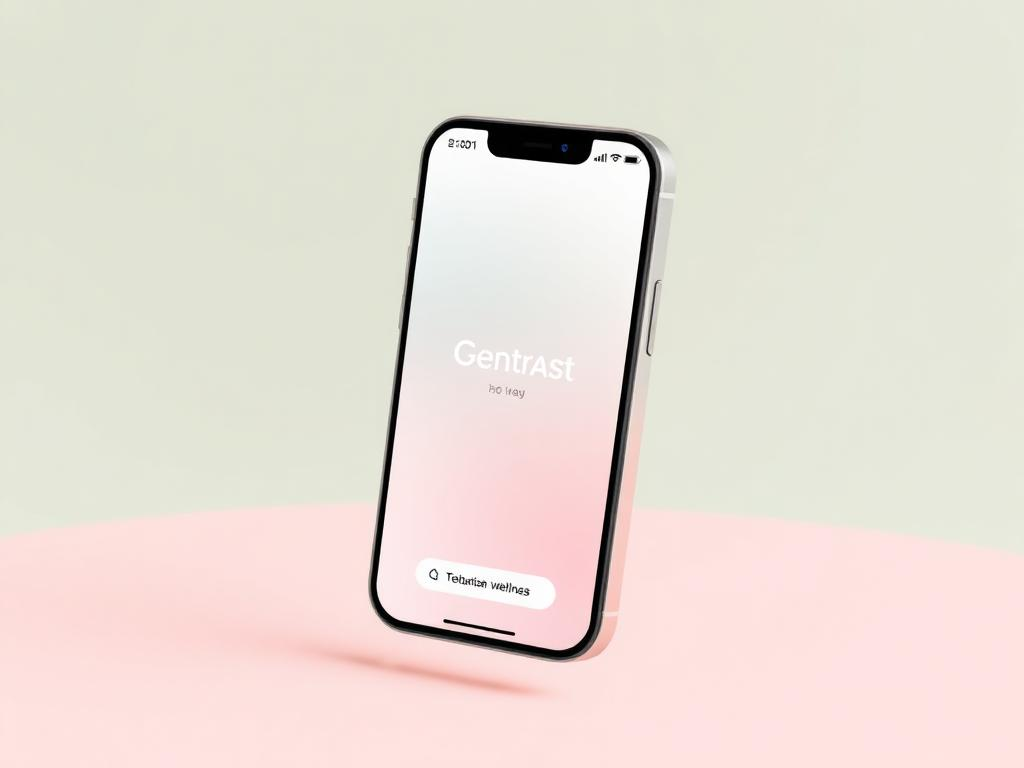
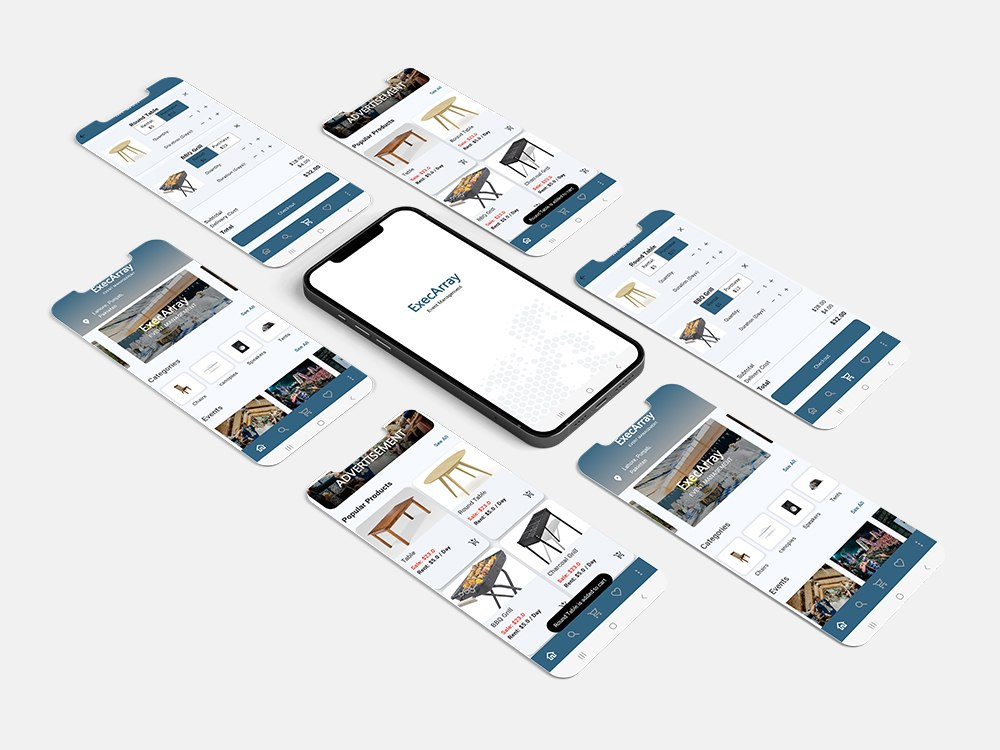
working on all sections to make it stable
working on all sections to make it stable

diff --git a/src/components/portfolio/data.ts b/src/components/portfolio/data.ts
@@ -1,6 +1,6 @@
-import p1 from "@/assets/project-1.jpg";
-import p2 from "@/assets/project-2.jpg";
-import p3 from "@/assets/project-3.jpg";
+import p1 from "@/assets/project-1.png";
+import p2 from "@/assets/project-2.png";
+import p3 from "@/assets/project-3.png";
 import p4 from "@/assets/project-4.jpg";
 
 export type Category = "Android" | "Flutter" | "Open Source" | "UI/UX";
@@ -17,45 +17,56 @@ export const projects: {
   demo?: string;
 }[] = [
   {
-    title: "FitTrack Pro",
-    description: "Workout & nutrition tracker with offline-first sync, 50k+ downloads on Play Store.",
+    title: "QR Code Scanner & Generator",
+    description: "Built an all-in-one QR Code Scanner & Generator app that enables fast scanning, creation, and customization of QR codes with support for colors, logos, styles, and multiple formats. Implemented offline local storage for saving and managing generated QR codes with instant sharing capabilities. Designed for both personal and business use with a clean UI and high-performance real-time scanning experience.",
     image: p1,
     stack: ["Kotlin", "Jetpack Compose", "Room", "Firebase"],
     features: ["Offline sync", "Custom charts", "Apple Health import", "Dark mode"],
     category: ["Android"],
-    playStore: "#",
-    github: "#",
+    playStore: "https://play.google.com/store/apps/details?id=com.imidroid.barcodescanner",
+
   },
   {
-    title: "Bento Eats",
-    description: "Cross-platform food delivery app with live order tracking and Stripe payments.",
+    title: "Kinetic Fitness App",
+    description: "Kinetic Fitness App (Flutter): Coaching, Workouts, Nutrition, Progress Tracking Designed and delivered a full-scale fitness and wellness mobile app built with Flutter, combining personal coaching, structured workouts, nutrition planning, body tracking, and visual progress tools into a single, high-performance platform.",
     image: p2,
-    stack: ["Flutter", "Dart", "Riverpod", "Stripe"],
-    features: ["Live tracking", "Push notifications", "12 languages", "A/B testing"],
-    category: ["Flutter"],
-    playStore: "#",
-    demo: "#",
+    stack: ["Flutter", "Dart", "Stacked Management", "Social feed"],
+    features: ["Personalized workout plans", "Assign a personal coach", "Diet tracking & recipe search", "Log, weight, goals & body fat", "Chat with coaches for guidance"],
+    category: ["Flutter" , "UI/UX"],
+    demo: "https://www.youtube.com/shorts/jbNbnxHEzng",
   },
   {
-    title: "Lumen Finance",
-    description: "Personal finance dashboard with AI-powered budget insights and bank sync.",
+    title: "PDF Converter: Image to PDF",
+    description: "PDF Converter is a simple and efficient Android app that allows users to convert images into high-quality PDF files within seconds. Designed for quick and smooth performance, it supports multiple image selections, PDF customization, and offline conversion. Perfect for students, professionals, and everyday users who need a fast and reliable image-to-PDF solution.",
     image: p3,
-    stack: ["Kotlin", "Hilt", "Coroutines", "MVVM"],
-    features: ["Plaid integration", "Biometric auth", "Widgets", "WearOS companion"],
-    category: ["Android", "UI/UX"],
-    github: "#",
-    playStore: "#",
+    stack: ["Kotlin", "Hilt", "Coroutines", "MVVM", "Firebase", "Room Database"],
+    features: ["Convert Images to PDF", "Smart Sorting Options", "Compress PDF File Size", " Work 100% Offline", "Share PDFs Instantly", "View PDFs Within the App"],
+    category: ["Android"],
+    playStore: "https://play.google.com/store/apps/details?id=com.imidroid.imagetopdf",
   },
   {
-    title: "Stillness",
-    description: "Meditation & breathwork app with ambient soundscapes and daily streaks.",
+    title: "ExecArray",
+    description: "ExecArray is a Flutter-based event management app that simplifies the purchase or rental of event essentials like chairs, tables, tents, and more. It uses multiple APIs to provide a seamless user experience, helping users efficiently manage event logistics.",
     image: p4,
-    stack: ["Flutter", "Dart", "Firebase", "Lottie"],
-    features: ["Background audio", "Streak engine", "Family plans", "Apple/Google Pay"],
+    stack: ["Flutter", "Dart", "Firebase", "Lottie", "provider", "carousel_slider", "http"    ],
+    features: ["User Authentication:", "Product Listings", "Categories", "Cart Management"],
     category: ["Flutter", "UI/UX", "Open Source"],
-    github: "#",
-    demo: "#",
+    github: "https://github.com/imrankhalid001/ExecArray",
   },
+
+ {
+    title: "Weat Local Market",
+    description: "Weat Local is a multi-vendor marketplace that empowers sellers to list items easily with API integration, Room Database, and Firebase Analytics. Developed with MVVM architecture and Kotlin, it offers features like secure payments through Stripe, authentication, and app push notifications for a modern and efficient shopping experience.",
+    image: "",
+    stack: ["Kotlin", "Hilt", "Coroutines", "MVVM", "Firebase", "Room Database"],
+    features: ["User Authentication:", "Multi-vendor Support", "Product Listings", "Categories", "Cart Management"],
+   category: ["Android"],
+    github: "https://play.google.com/store/apps/details?id=com.weat_local.weatbuyerside",
+  },
+
+
+
+
 ];
 
 export const skills = [
@@ -83,31 +94,33 @@ export const certificates = [
 export const experience = [
   {
     role: "Senior Mobile Engineer",
-    company: "Northwind Labs",
-    period: "2023 — Present",
+    company: "Exario Digital",
+    period: "2024 — Present",
     points: [
-      "Led Android rewrite to Jetpack Compose, cutting cold-start by 42%.",
-      "Shipped Flutter web companion reaching 120k MAU.",
-      "Mentored a team of 4 engineers on Clean Architecture.",
-    ],
-  },
-  {
-    role: "Mobile Developer (Freelance)",
-    company: "Independent",
-    period: "2021 — 2023",
-    points: [
-      "Delivered 14 production apps across fintech, health and e-commerce.",
-      "Aggregate downloads exceeded 500k on Play Store.",
-      "Average store rating 4.7★.",
+      "Led development of scalable Android applications using Kotlin, MVVM, Clean Architecture, Room, Retrofit, and Jetpack components.",
+      "Implemented offline-first architecture, reducing data-fetch latency by 30% in low-connectivity environments.",
+      "Implemented enterprise Android (Device Owner) functionality for advanced device management and security.",
+      "Built real-time communication, smart home, and fintech integrations serving thousands of active users."
     ],
   },
   {
     role: "Android Developer",
-    company: "Pixel & Co.",
-    period: "2019 — 2021",
+    company: "Astute Solutions",
+    period: "2021 — 2024",
     points: [
-      "Migrated legacy Java codebase to Kotlin + Coroutines.",
-      "Introduced CI/CD with Fastlane, halving release cycle.",
+      "Delivered multilingual Android solutions across GCC markets with integrated payment ecosystems.",
+      "Reduced production crash rates by over 70% through Firebase Crashlytics monitoring, performance optimization, and proactive debugging.",
+      "Contributed to applications surpassing 100K+ downloads while maintaining strong stability metrics.",
+    ],
+  },
+  {
+    role: "Android Developer",
+    company: "DevSaar",
+    period: "2010 — 2021",
+    points: [
+      "Migrated legacy Java codebase to Kotlin + Coroutines and MVVM architecture",
+      "Modernized legacy codebases and improved maintainability through architectural migrations.",
+      "Reduced crashes and ANRs through systematic debugging and performance optimization."
     ],
   },
 ];
@@ -121,18 +134,30 @@ export const stats = [
 
 export const testimonials = [
   {
-    quote: "Imran delivered our Flutter app in record time without compromising on polish. A rare talent.",
-    name: "Priya Mehta",
-    role: "CTO, Bento Eats",
-  },
-  {
     quote: "The Compose migration he led made our app feel completely new. Engineering quality is top-tier.",
-    name: "Daniel Cho",
-    role: "Head of Mobile, Northwind",
+    name: "Adnan Qamar",
+    role: "CEO, Technixhub",
   },
   {
     quote: "Communicates clearly, ships on time, and cares about the details. Hire him.",
-    name: "Sofia Alvarez",
-    role: "Founder, Stillness",
+    name: "Junaid Saeed",
+    role: "Founder, Exario Digital",
   },
+  {
+    quote: "Imran delivered our Flutter app in record time without compromising on polish. A rare talent.",
+    name: "Mohammed",
+    role: "CEO, Supply on Demand",
+  },
+
+   {
+    quote: "Communicates clearly, ships on time, and cares about the details. Hire him.",
+    name: "Junaid Saeed",
+    role: "Founder, Exario Digital",
+  },
+  {
+    quote: "Imran delivered our Flutter app in record time without compromising on polish. A rare talent.",
+    name: "Mohammed",
+    role: "CEO, Supply on Demand",
+  },
+
 ];

diff --git a/src/components/portfolio/About.tsx b/src/components/portfolio/About.tsx
@@ -26,16 +26,23 @@ export function About() {
         <div className="grid lg:grid-cols-2 gap-10 items-start">
           <div className="space-y-4 text-muted-foreground leading-relaxed">
             <p>
-              I'm a mobile engineer who loves shipping apps that feel
-              instantaneous and look beautiful. I focus on clean architecture,
-              strong testing and tight design–engineering collaboration.
+              I'm a mobile engineer with 6+ years of experience building high-performance Android and cross-platform 
+              applications that feel instantaneous and look beautiful. I focus on clean architecture, scalable codebases,
+              and strong collaboration between design and engineering teams.
             </p>
             <p>
-              Recently I led a Compose rewrite that cut cold-start time by 42%,
-              and shipped a Flutter companion now used by 120k people monthly.
-              I care about accessibility, dark mode done right, and the small
-              details that make great apps memorable.
+             I have led and contributed to multiple production apps across different domains, with one of my applications
+              surpassing 100K+ downloads and significantly improving production stability by reducing crash rates to under 1%. 
+              My work spans enterprise-level Android systems including device owner solutions with advanced device management 
+              features such as remote lock and data control.
             </p>
+
+            <p>
+             I also have experience building smart home applications with real-time communication systems, along with integrating
+              payment gateways like Stripe, HyperPay, Tabby, and Tamara for GCC-based platforms. My apps are used globally with 
+              strong multilingual support and localization strategies.
+            </p>
+
 
             <div className="flex flex-wrap gap-2 pt-4">
               {tech.map((t) => (

diff --git a/src/components/portfolio/Hero.tsx b/src/components/portfolio/Hero.tsx
@@ -1,6 +1,6 @@
 import { ArrowRight, Github, Linkedin, Mail, Smartphone } from "lucide-react";
 import { Button } from "@/components/ui/button";
-import avatar from "@/assets/avatar.jpg";
+import avatar from "@/assets/avatar.png";
 
 export function Hero() {
   return (
